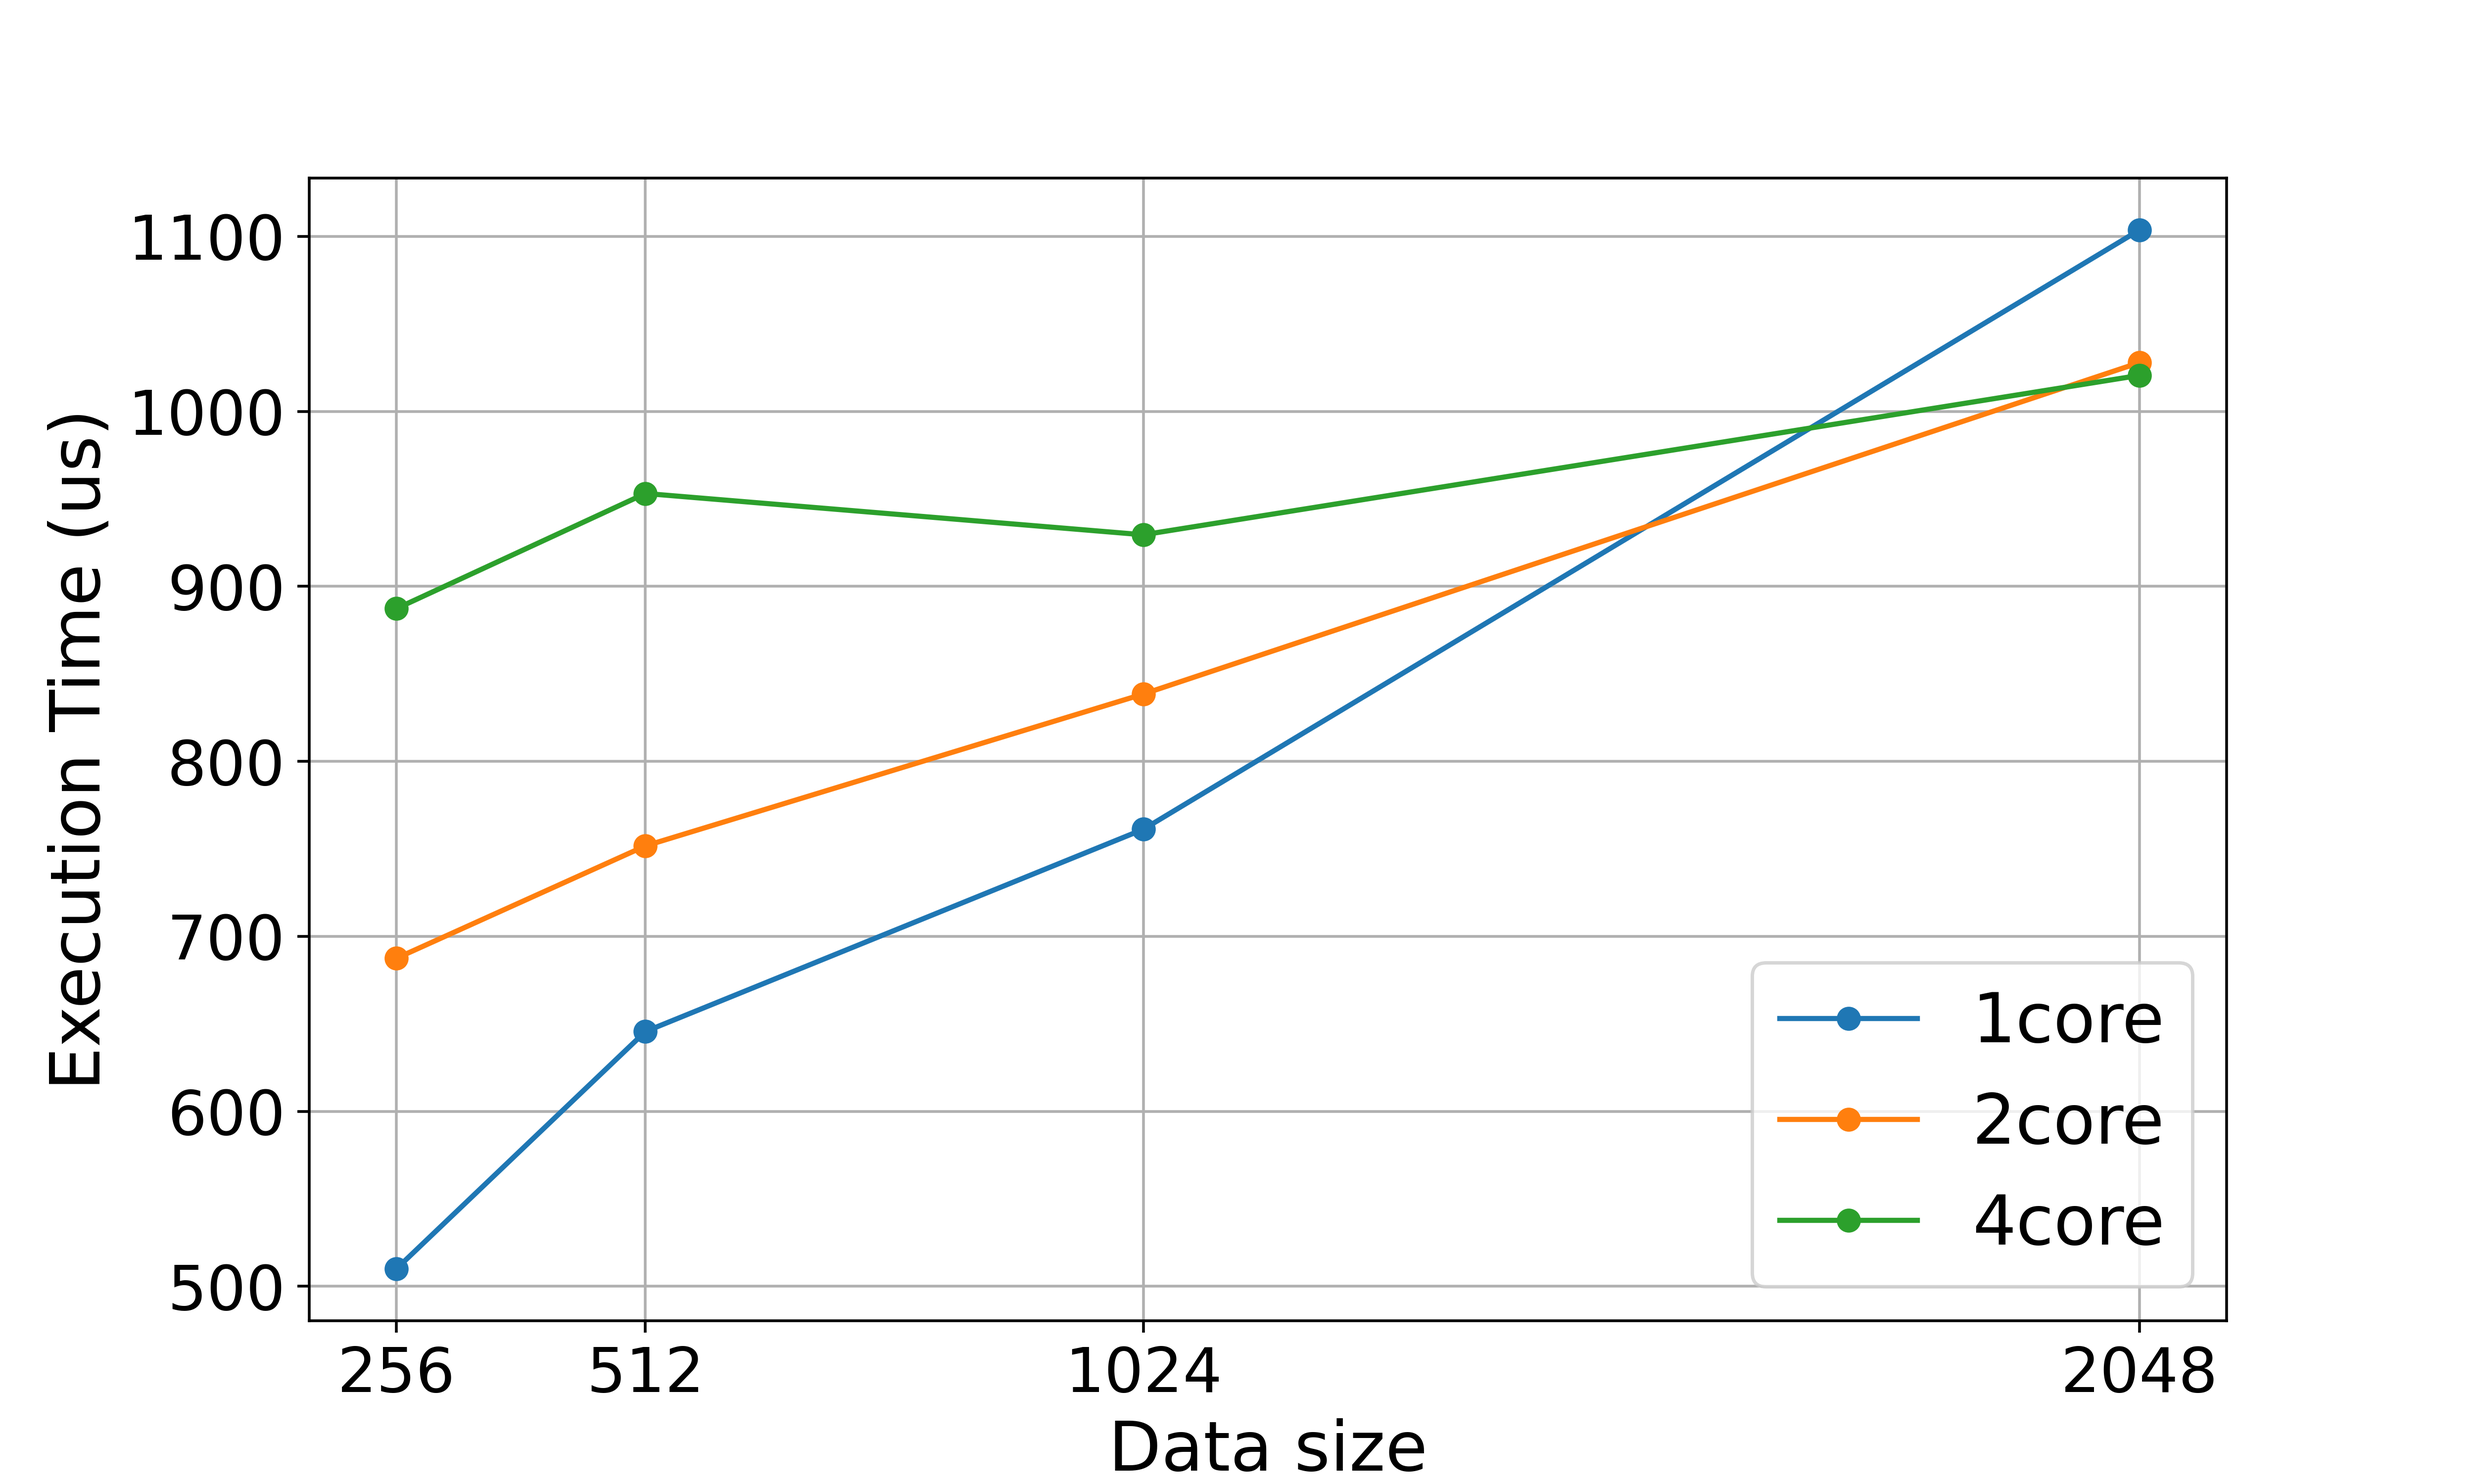
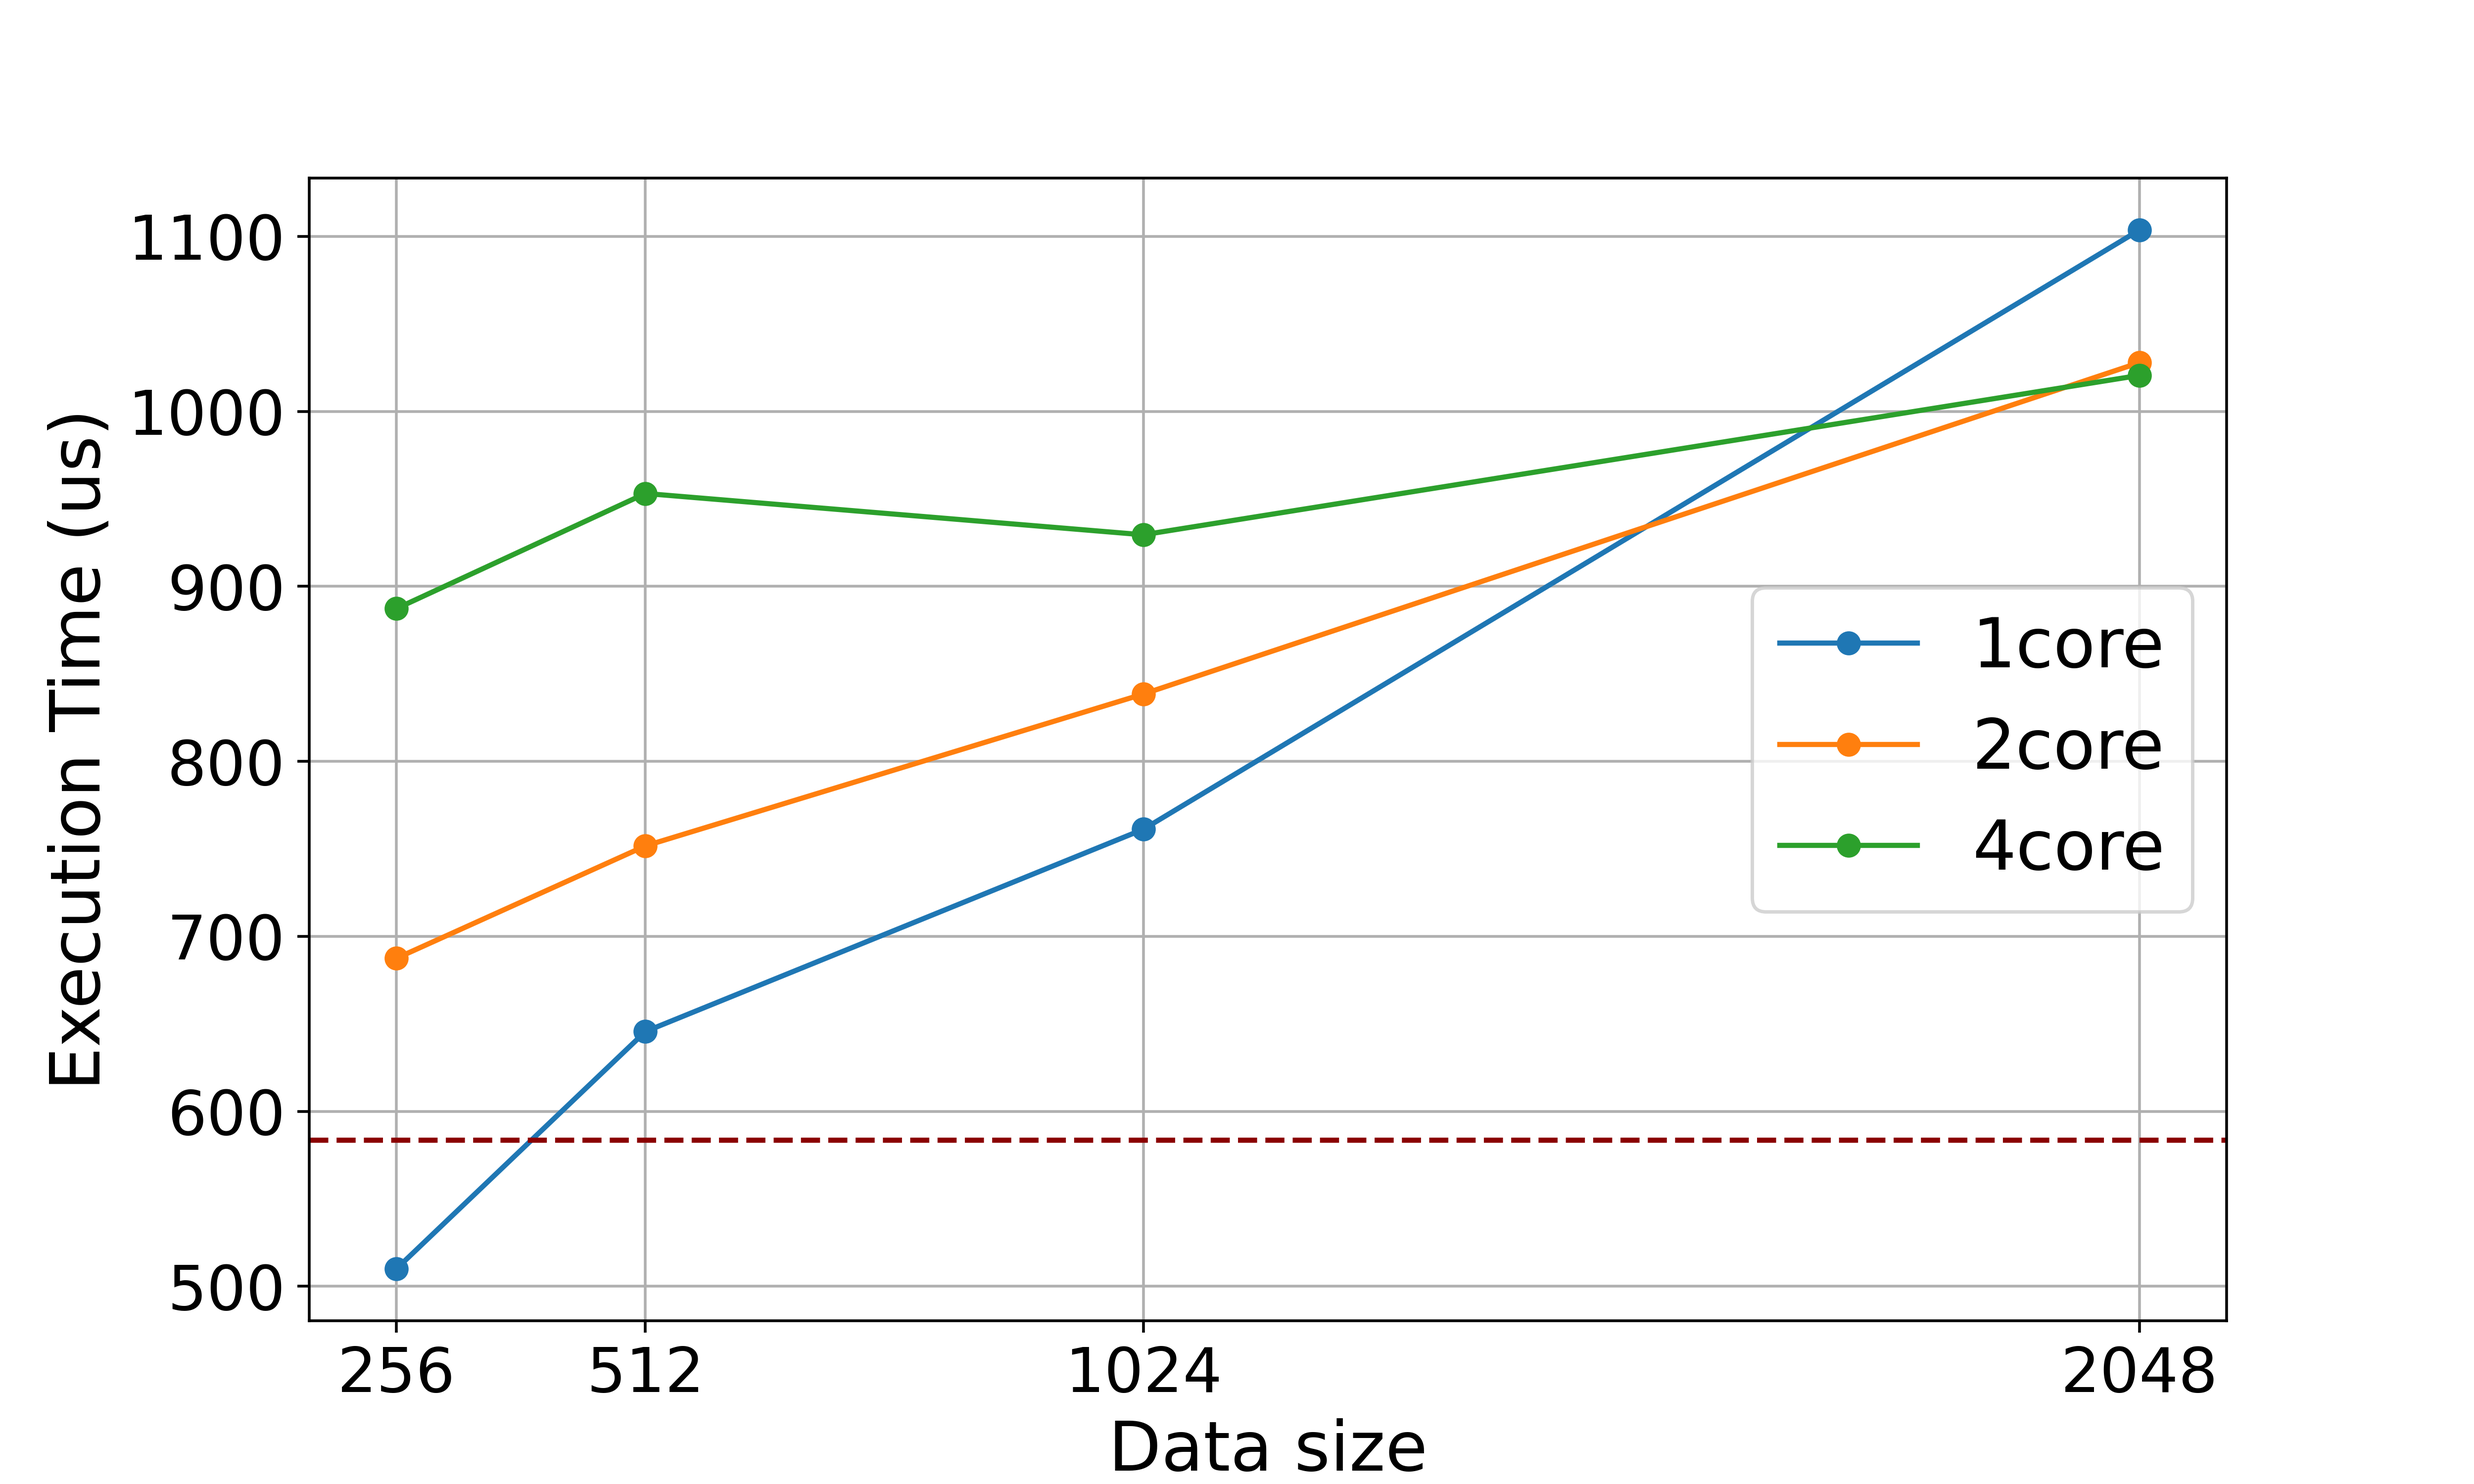
profile

diff --git a/utils/plot_utilization.py b/utils/plot_utilization.py
@@ -1,0 +1,54 @@
+import os
+import pandas as pd
+import matplotlib.pyplot as plt
+
+directory_path = "/mnt/c/Technical/ntt-aie/profile/exectime"
+
+data = {}
+
+for i in range(3):
+    for j in range(8, 12):
+        n = 2 ** j
+        fname = f"ntt_{2 ** i}core_logn{j}.csv"
+        filepath = os.path.join(directory_path, fname)
+
+        # Read CSV
+        print("reading...", filepath)
+        df = pd.read_csv(filepath, header=None)
+        if df.empty:
+            print(f"{fname} is empty, skip")
+            continue
+        
+        # Average of values
+        avg_value = df.mean().values[0]
+
+        # Cal Utilization
+        flops_actually = 8 * n * j / (avg_value * 0.0001)
+        flops_peak = 400000000
+        utilization = flops_actually / flops_peak
+        print(f"avg:{avg_value}, actualy:{flops_actually}, peak:{flops_peak}, utilization:{utilization}")
+
+        # Save data
+        if i not in data:
+            data[i] = {}
+        data[i][n] = utilization
+
+print(data)
+
+plt.figure(figsize=(10, 6))
+
+print(data)
+for core, n_data in data.items():
+    label_name = f"{(core)}Core"
+    n_values = sorted(n_data.keys())
+    execution_times = [n_data[logn] for logn in n_values]
+    plt.plot(n_values, execution_times, marker='o', label=label_name)
+
+plt.xticks(n_values)
+
+plt.xlabel('Data size', fontsize=20)
+plt.ylabel('Efficiency', fontsize=20)
+plt.tick_params(labelsize=18)
+plt.legend(fontsize=20)
+plt.grid(True)
+plt.savefig("efficiency.png", dpi=500)

diff --git a/utils/plot_exectime.py b/utils/plot_exectime.py
@@ -3,7 +3,7 @@ import pandas as pd
 import matplotlib.pyplot as plt
 
 # ディレクトリのパスを指定
-directory_path = "/mnt/c/Technical/ntt-aie/profile"
+directory_path = "/mnt/c/Technical/ntt-aie/profile/exectime"
 
 # コアごとにデータを保存するための辞書を作成
 data = {}
@@ -35,6 +35,14 @@ for filename in os.listdir(directory_path):
             data[core] = {}
         data[core][n] = mean_execution_time
 
+# Empty Kernel
+filename_empty = "/mnt/c/Technical/ntt-aie/profile/dummy.csv"
+df = pd.read_csv(filename_empty, header=None)
+if df.empty:
+    print(f"{filename_empty} is empty, skipped")
+time_empty_avg = df.mean().values[0]
+print(time_empty_avg)
+
 # グラフをプロット
 plt.figure(figsize=(10, 6))
 
@@ -44,6 +52,8 @@ for core, n_data in data.items():
     n_values = sorted(n_data.keys())
     execution_times = [n_data[logn] for logn in n_values]
     plt.plot(n_values, execution_times, marker='o', label=core)
+
+plt.axhline(y=time_empty_avg, color='darkred', linestyle='--')
 
 plt.xticks(n_values)
 
